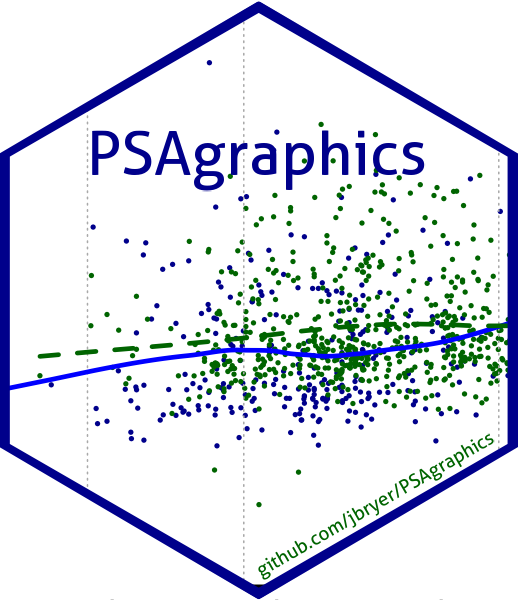
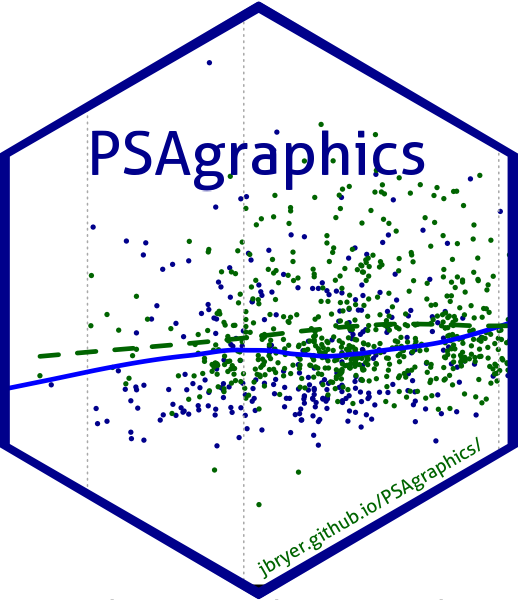
Updated URL.

Changed region(s): [[0.4942, 0.72, 0.9575, 0.96]]

diff --git a/README.md b/README.md
@@ -12,19 +12,22 @@
 checks](https://badges.cranchecks.info/summary/PSAgraphics.svg)](https://cran.r-project.org/web/checks/check_results_PSAgraphics.html)
 <!-- badges: end -->
 
+**Contact**: Jason Bryer, Ph.D. <jason@bryer.org>  
+**Website**: <https://jbryer.github.io/PSAgraphics/>
+
 A collection of functions that primarily produce graphics to aid in a
-Propensity Score Analysis (PSA). Functions include: cat.psa and box.psa
-to test balance within strata of categorical and quantitative
-covariates, circ.psa for a representation of the estimated effect size
-by stratum, loess.psa that provides a graphic and loess based effect
+Propensity Score Analysis (PSA). Functions include: `cat.psa` and
+`box.psa` to test balance within strata of categorical and quantitative
+covariates, `circ.psa` for a representation of the estimated effect size
+by stratum, `loess.psa` that provides a graphic and Loess based effect
 size estimate, and various balance functions that provide measures of
 the balance achieved via a PSA in a categorical covariate.
 
 For more information, see and cite:
 
 Helmreich, J. E., & Pruzek, R. M. (2009). PSAgraphics: An R Package to
-Support Propensity Score Analysis. Journal of Statistical Software,
-29(6), 1–23. <https://doi.org/10.18637/jss.v029.i06>
+Support Propensity Score Analysis. *Journal of Statistical Software,
+29*(6), 1–23. <https://doi.org/10.18637/jss.v029.i06>
 
 ## Installation
 
